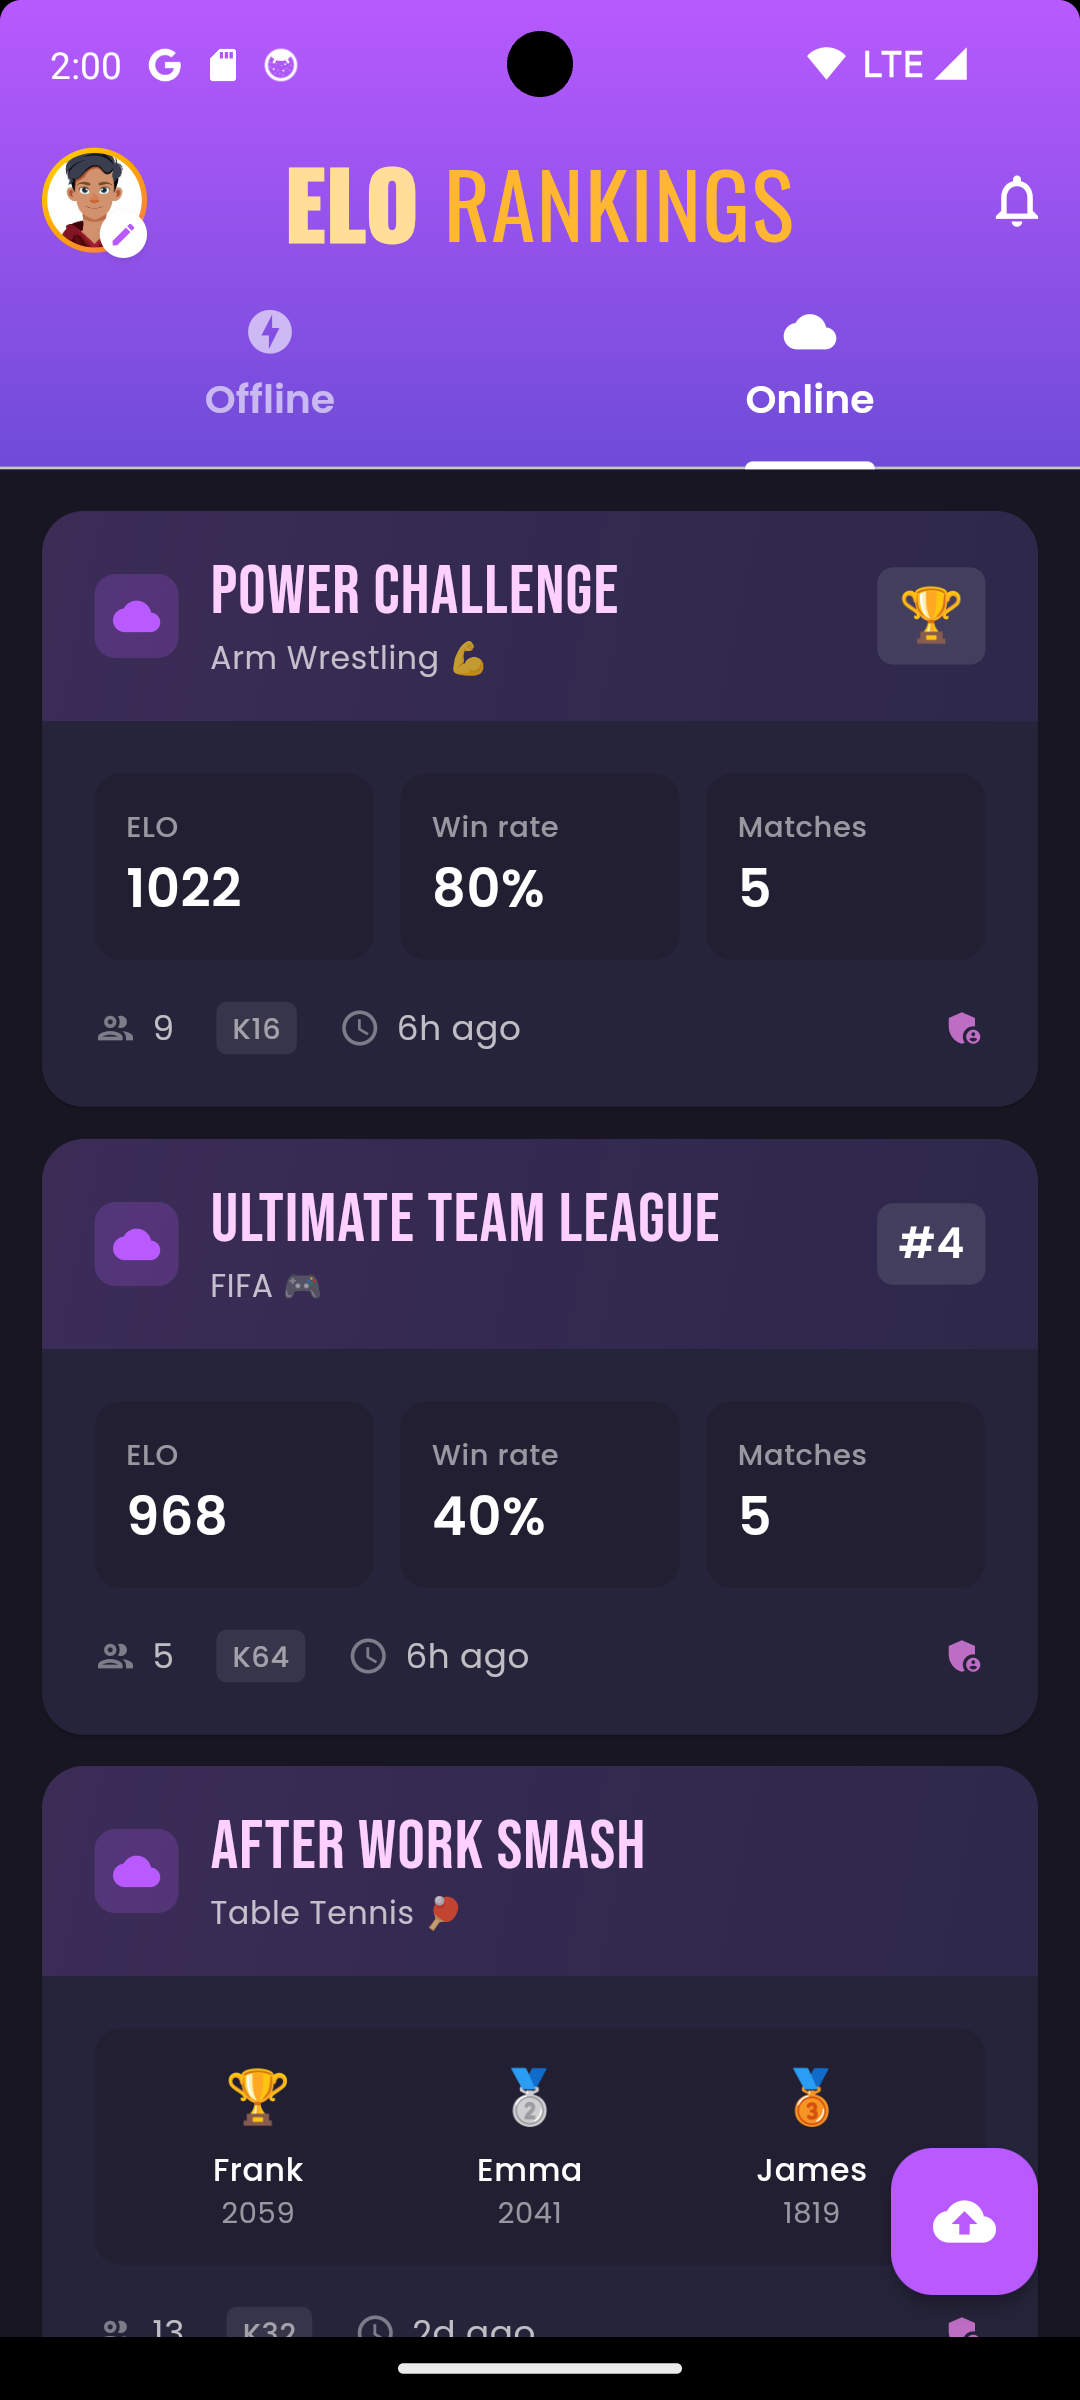
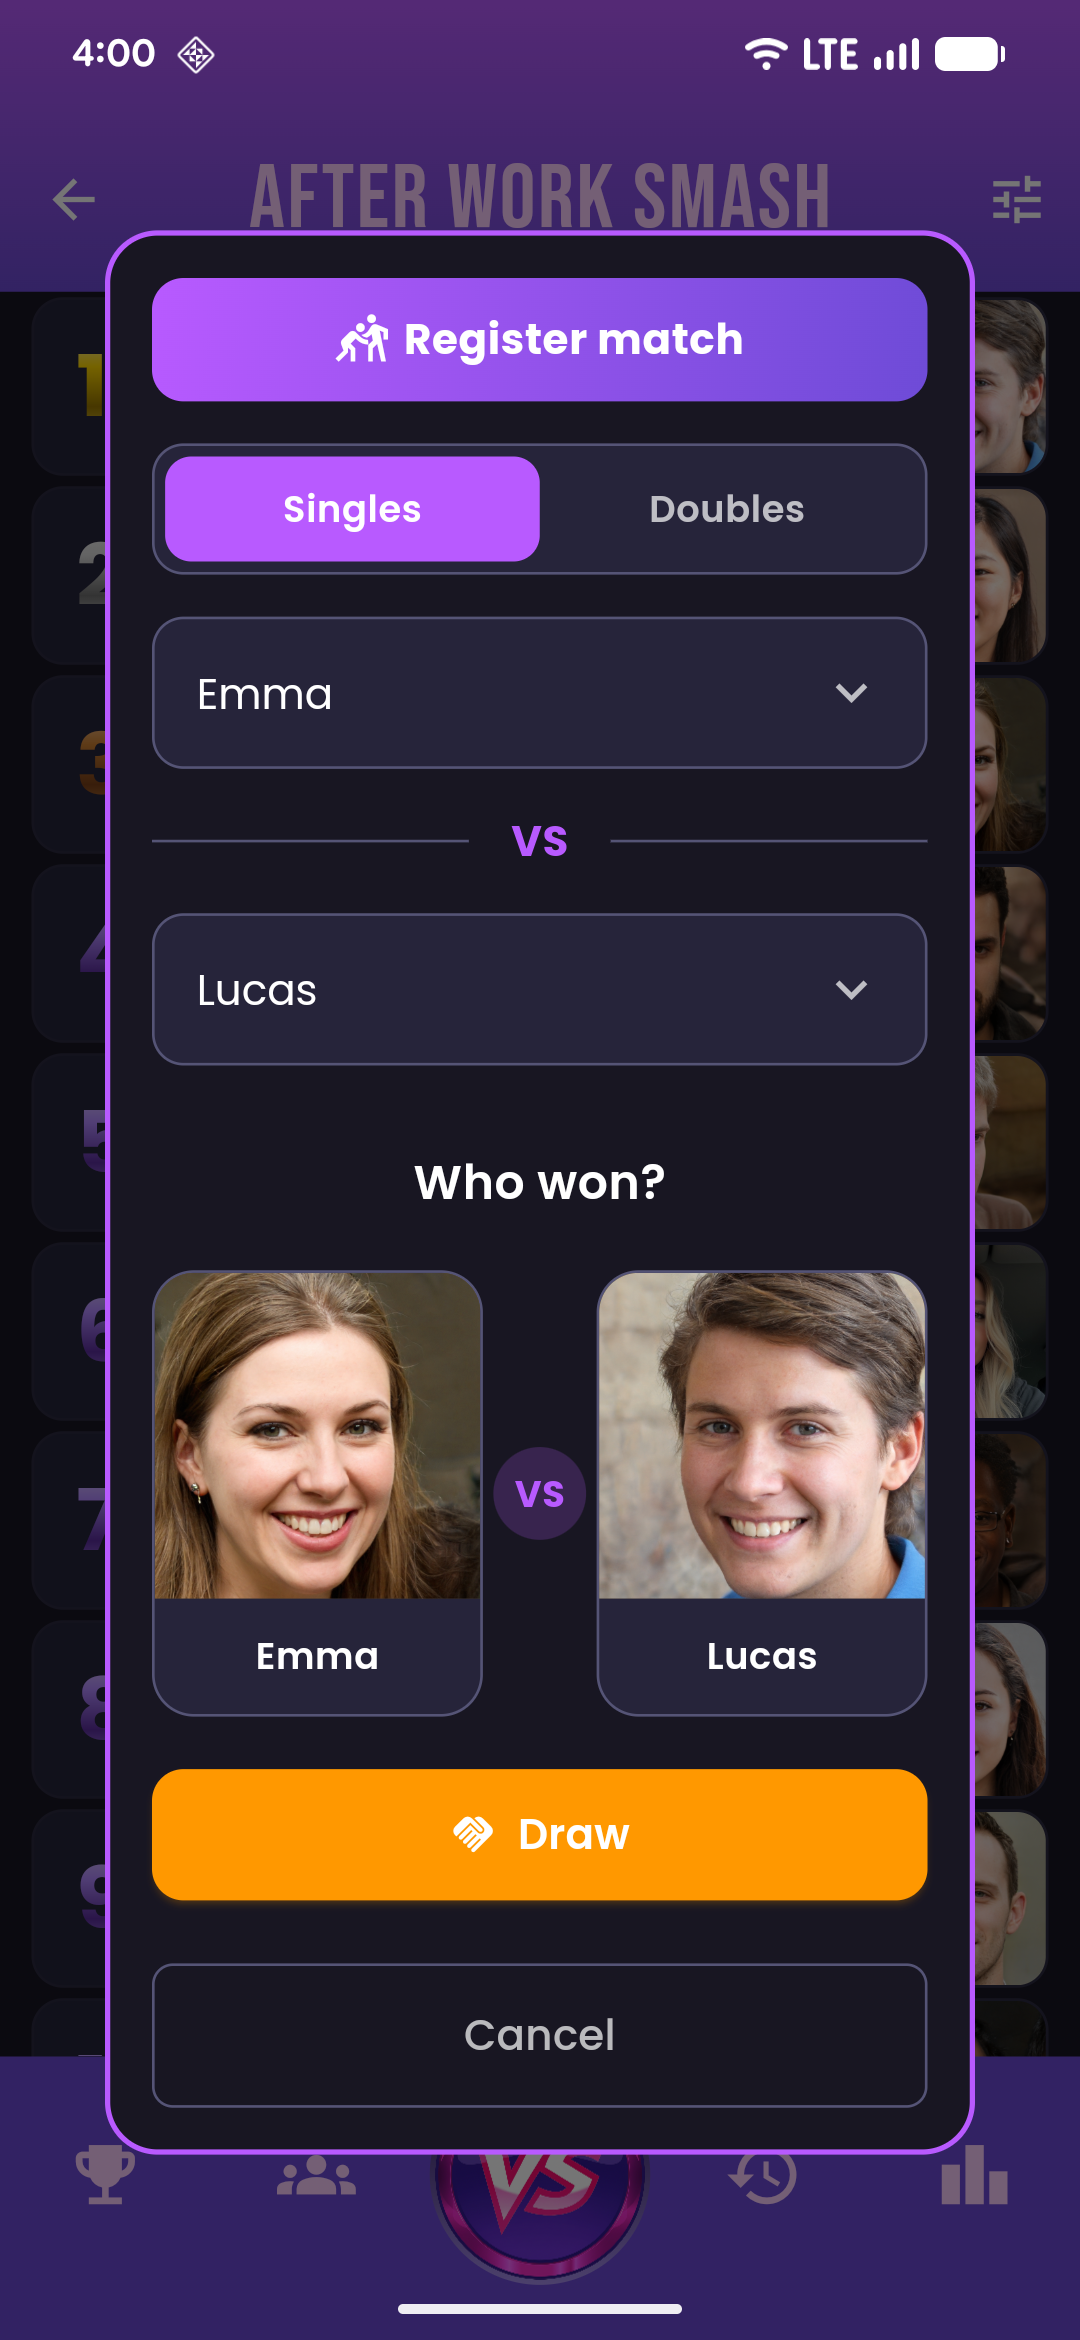
Forsideendringer

diff --git a/app/page.tsx b/app/page.tsx
@@ -36,37 +36,23 @@ export default async function Home() {
         />
 
         <div className="relative max-w-4xl mx-auto">
-          {/* Logo */}
-          <div className="flex items-center justify-center gap-4 mb-10">
-            <div
-              className="rounded-2xl p-2"
-              style={{ background: 'rgba(184,90,255,0.08)' }}
-            >
-              <img
-                src="/logo/TrofeTransparens.png"
-                alt="ELO Rankings"
-                width={72}
-                height={72}
-                className="drop-shadow-[0_0_32px_rgba(184,90,255,0.8)]"
-              />
-            </div>
-            <span
-              className="text-4xl font-extrabold tracking-tight"
+          {/* Hero banner — promo art replaces logo + wordmark + tagline */}
+          <h1 className="sr-only">ELO Rankings — Settle the score</h1>
+          <div className="flex justify-center mb-8">
+            <Image
+              src="/promoart/hero.png"
+              alt="ELO Rankings — Settle the score"
+              width={1024}
+              height={500}
+              priority
+              className="w-full max-w-2xl h-auto rounded-2xl"
               style={{
-                background: 'linear-gradient(135deg, #fff 0%, #B85AFF 100%)',
-                WebkitBackgroundClip: 'text',
-                WebkitTextFillColor: 'transparent',
+                boxShadow:
+                  '0 25px 60px -12px rgba(184,90,255,0.25), 0 0 40px -8px rgba(184,90,255,0.15)',
               }}
-            >
-              ELO Rankings
-            </span>
+            />
           </div>
-
-          {/* Tagline */}
-          <h1 className="text-4xl sm:text-5xl lg:text-6xl font-extrabold text-white mb-5 leading-tight text-center">
-            Settle the score
-          </h1>
-          <p className="text-lg sm:text-xl text-[#9B95A8] mb-12 text-center">
+          <p className="text-lg sm:text-xl text-[#9B95A8] mb-12 text-center max-w-xl mx-auto">
             Fair ELO-based rankings for any game your group plays.
           </p>
 
@@ -164,13 +150,13 @@ export default async function Home() {
 
       {/* Screenshots */}
       <section className="w-full max-w-4xl mx-auto px-4 pb-24">
-        <div className="flex justify-center items-end gap-6 sm:gap-12">
+        <div className="flex justify-center items-end gap-2 sm:gap-6">
+          {/* Left — leaderboard */}
           <div
-            className="rounded-[2rem] overflow-hidden ring-1 ring-white/10 transition-transform hover:scale-[1.02]"
+            className="rounded-[2rem] overflow-hidden ring-1 ring-white/10 transition-transform hover:scale-[1.04] w-[120px] sm:w-[180px] -rotate-6 translate-y-4"
             style={{
               boxShadow:
                 '0 25px 60px -12px rgba(184,90,255,0.2), 0 0 40px -8px rgba(184,90,255,0.1)',
-              transform: 'rotate(-3deg)',
             }}
           >
             <Image
@@ -181,12 +167,28 @@ export default async function Home() {
               className="w-full h-auto"
             />
           </div>
+          {/* Center — match registration (focal point) */}
           <div
-            className="rounded-[2rem] overflow-hidden ring-1 ring-white/10 transition-transform hover:scale-[1.02]"
+            className="rounded-[2rem] overflow-hidden ring-1 ring-white/10 transition-transform hover:scale-[1.04] w-[150px] sm:w-[220px] relative z-10"
+            style={{
+              boxShadow:
+                '0 30px 70px -12px rgba(184,90,255,0.3), 0 0 50px -8px rgba(184,90,255,0.18)',
+            }}
+          >
+            <Image
+              src="/screenshots/2.png"
+              alt="Register a singles or doubles match in two taps"
+              width={220}
+              height={476}
+              className="w-full h-auto"
+            />
+          </div>
+          {/* Right — scoreboard overview */}
+          <div
+            className="rounded-[2rem] overflow-hidden ring-1 ring-white/10 transition-transform hover:scale-[1.04] w-[120px] sm:w-[180px] rotate-6 translate-y-4"
             style={{
               boxShadow:
                 '0 25px 60px -12px rgba(184,90,255,0.2), 0 0 40px -8px rgba(184,90,255,0.1)',
-              transform: 'rotate(3deg)',
             }}
           >
             <Image
